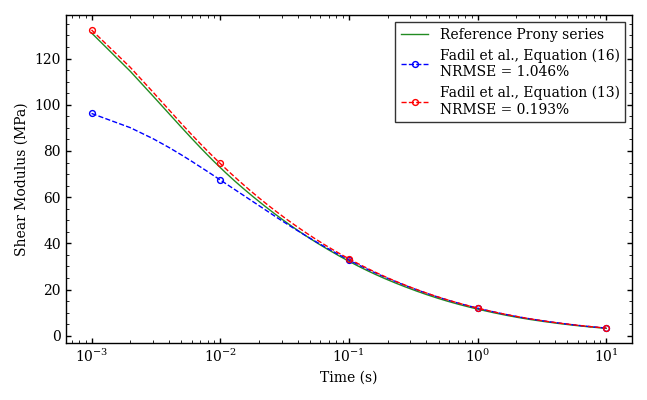
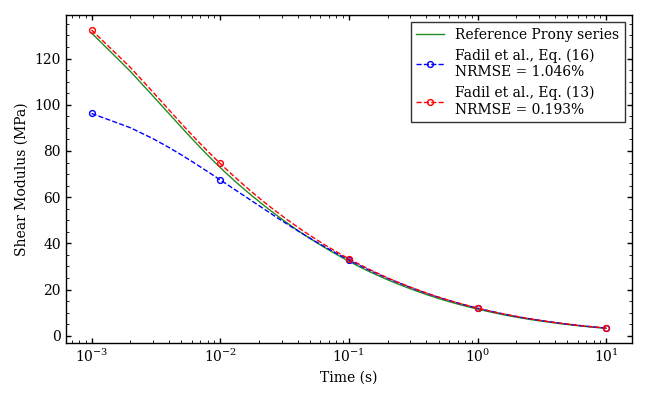
2026-11-09 Updated figure legends
-Modified legends of the figures to be consistent with the used equation reference format.

Changed region(s): [[0.5873, 0.03, 0.9583, 0.33]]

diff --git a/abaqus/abaqus_fadil_equation_comparison.py b/abaqus/abaqus_fadil_equation_comparison.py
@@ -726,7 +726,7 @@ class ViscoelasticIndentation:
                 markevery=list(marker_indices_closed),
                 zorder=4,
                 label=(
-                    "Fadil et al., Equation (16)\n"
+                    "Fadil et al., Eq. (16)\n"
                     f"NRMSE = "
                     f"{self.closed_form_shear_modulus_normalized_rmse:.3f}%"
                 ),
@@ -745,7 +745,7 @@ class ViscoelasticIndentation:
                 markevery=list(marker_indices_numerical),
                 zorder=4,
                 label=(
-                    "Fadil et al., Equation (13)\n"
+                    "Fadil et al., Eq. (13)\n"
                     f"NRMSE = "
                     f"{self.numerical_shear_modulus_normalized_rmse:.3f}%"
                 ),

diff --git a/viscoelastic/fadil_equation_13.py b/viscoelastic/fadil_equation_13.py
@@ -387,7 +387,7 @@ def plot_results(
             markevery=list(marker_indices),
             zorder=4,
             label=(
-                f"Fadil et al., Equation (13) "
+                f"Fadil et al., Eq. (13) "
                 f"NRMSE = {normalized_modulus_rmse:.2f}%"
             ),
         )
@@ -420,7 +420,7 @@ def plot_results(
             linewidth=1.0,
             zorder=4,
             label=(
-                f"Fadil et al., Equation (13) "
+                f"Fadil et al., Eq. (13) "
                 f"NRMSE = {normalized_force_rmse:.2f}%"
             ),
         )
